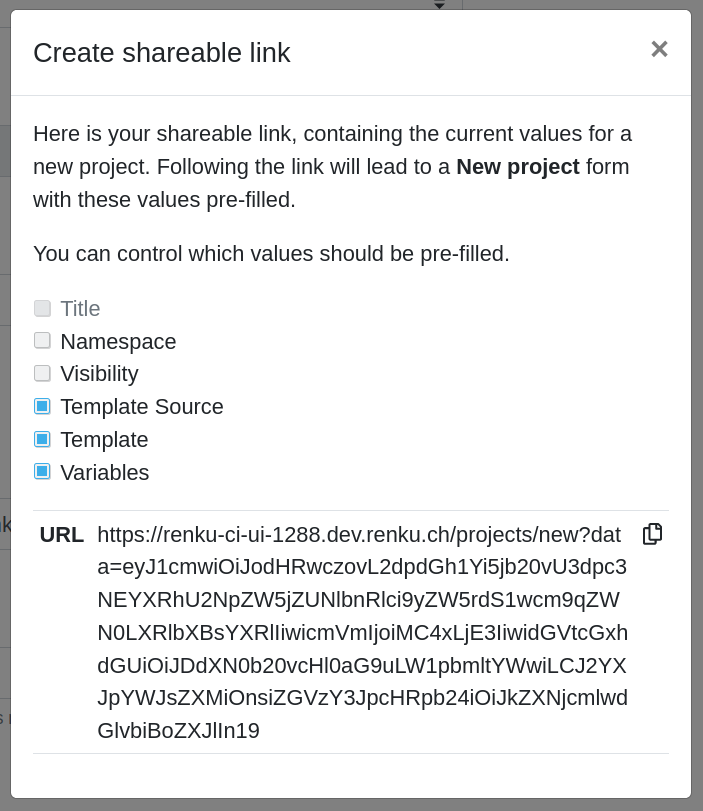
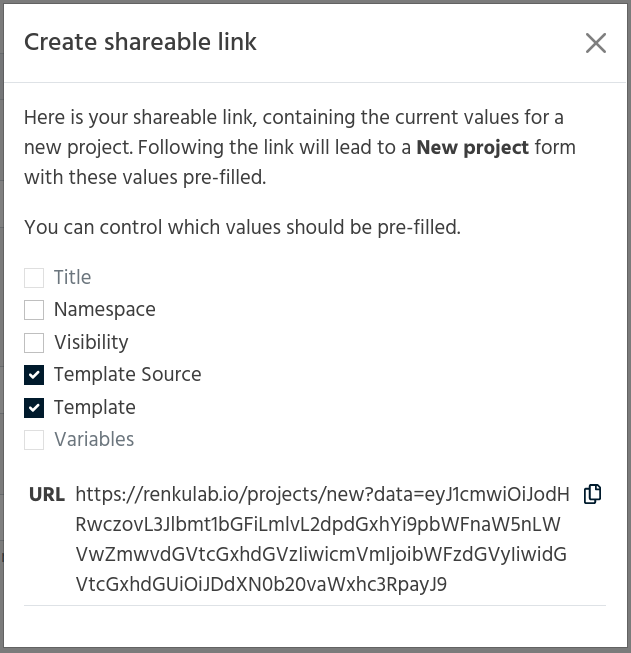
chore: update images to the new UI
* update project creation images

* update collaboration tab

* update template images

* update KG views

* spelling

* blur details

Changed region(s): [[0.0, 0.0, 1.0, 1.0]]

diff --git a/docs/tutorials/first_steps/10_sharing_is_caring.rst b/docs/tutorials/first_steps/10_sharing_is_caring.rst
@@ -6,18 +6,20 @@ Share your results and collaborate with your peers
 In this section, we will see how to use Renku to collaborate on projects. For
 an overview on collaboration, see :ref:`collaborating`.
 
-Discussions with Issues
-^^^^^^^^^^^^^^^^^^^^^^^
+A view of Issues and Merge Requests
+^^^^^^^^^^^^^^^^^^^^^^^^^^^^^^^^^^^
 
 Let us start by going back to the Renku web interface on renkulab.io_ or
 whichever instance you are using for this tutorial. Make sure you are logged
 in, so you can see your projects list by clicking on ``Projects`` in the top
 navigation bar.
 
-Click on your ``flights-tutorial`` project to open it and then go to the
-**Issues** sub tab (2) of the **Collaboration** tab (1). It is probably empty
+Click on your ``Flights-tutorial`` project to open it and then go to the 
+**Collaboration** tab (1). Here we provide quick access into the GitLab Issues
+and Merge Requests view. You can view and create new Issues and Merge Requests
+directly from this view. It is probably empty
 at the moment, so let us start a new discussion by clicking on the
-**New Issue** button (3).
+**New Issue** button (2).
 
 .. image:: ../../_static/images/ui_05_new-issue.png
     :width: 85%
@@ -30,100 +32,21 @@ as follows.
 * Title: Data source
 * Description: Where does the data come from?
 
-Do not change the **Visibility** and click on **Create**.
+Click on **Submit issue**. The **Issues** sub tab should now list the newly created issue.
 
-The **Issues** sub tab should now list the newly created issue.
-
-In Renku, issues are media-rich discussions you can use to help keep track of
-your work and to collaborate with others.
-
-To participate in a given issue and add comments, click on the title.
+The issues can be viewed directly in this window.
 
 .. image:: ../../_static/images/ui_06_issues-list.png
     :width: 85%
     :align: center
-    :alt: Kus list in Renku UI
+    :alt: Issues in Gitlab view
+    
+Once the issue has been resolved, it can be closed in the same way (1).    
 
-This will display the thread of comments from the selected issue.
-To write something and add it to the discussion, use the text
-box and click submit.
-
-.. image:: ../../_static/images/ui_07_new-issue-comment.png
+.. image:: ../../_static/images/ui_06_issues-close.png
     :width: 85%
     :align: center
-    :alt: Participate in a issue in Renku UI
-
-The comments are entered using the Markdown format (`cheatsheet here <https://github.com/adam-p/markdown-here/wiki/Markdown-Cheatsheet>`_). You can also embed notebook files
-and markdown files to have them rendered in-line in the issue body or comment.
-The syntax is as follows:
-
-.. code-block:: console
-
-    ![description](file-location)
-
-Let us try this with our question about where the data is coming from.
-Copy and paste the following text in the text box and hit **Submit**.
-
-.. code-block:: console
-
-    The readme should be updated with information about the data source:
-
-    ![Readme](README.md)
-
-.. image:: ../../_static/images/ui_08_issue-comment-1.png
-    :width: 85%
-    :align: center
-    :alt: Issue example 1 in Renku UI
-
-Now, you can use **Launch JupyterLab** to open and edit the ``README.md`` file.
-You can mention that the data comes from the *US Dept. of Transportation,
-Bureau of Transportation Statistics*, with a link to its home page:
-https://www.transtats.bts.gov
-
-To update the repository after changing the ``README.md`` file, open a console
-by clicking on the '+' button and then selecting **Terminal**.
-
-Use ``git`` to save your changes:
-
-.. code-block:: console
-
-    git add README.md
-    git commit -m"Added data source information to the Readme"
-    git push
-
-Now that the ``README.md`` file has been updated, we can **Close**
-the issue (1).
-
-.. image:: ../../_static/images/ui_09_close-issue.png
-    :width: 85%
-    :align: center
-    :alt: Close issue in Renku UI
-
-Doing so indicates that the corresponding discussion is closed.
-This can be useful to sort discussions and find out what is currently
-work-in-progress and what has been completed within the project.
-
-Now, let us create another issue and embed a notebook in the discussion.
-
-* Title: General data exploration
-* Description: First look at the dataset
-
-Add a comment with the following content:
-
-.. code-block:: console
-
-    Let's explore the dataset! Here is what we know:
-
-    ![Exploration notebook](notebooks/01-CountFlights.ran.ipynb)
-
-After creating the issue, you will see the contents of the notebook displayed
-in the comment. You can collapse/expand the notebook display by clicking on its
-title in blue.
-
-.. image:: ../../_static/images/ui_10_embed-notebook.png
-    :width: 85%
-    :align: center
-    :alt: Embedded notebook in Renku UI
+    :alt: Close in Gitlab view
 
 .. _renkulab.io: https://renkulab.io
 .. _documentation: https://renku.readthedocs.io/

diff --git a/docs/tutorials/first_steps/02_start_an_interactive_session.rst b/docs/tutorials/first_steps/02_start_an_interactive_session.rst
@@ -10,25 +10,36 @@ desktop using VNC. We will use JupyterLab and RStudio for this tutorial.
 
 In the previous step we :ref:`created a new project <create_project>` using
 the Python, Julia or R template; we can start working with the project right from the
-browser by starting a session in either JupyterLab or RStudio. Click on **Environments**
-(1), then on **New** (2).
+browser by starting a session in end-points mentioned above.
 
-.. image:: ../../_static/images/ui_03.1_notebook-servers.png
+There are a few ways of initiating a session. The one-click **Start** button
+(1) uses all the default settings to initiate a session. 
+
+.. image:: ../../_static/images/ui_03_start-session.png
     :width: 100%
     :align: center
-    :alt: Head to environments page
+    :alt: Head to sessions page
+
+This is sufficient for this tutorial, however you may also click on
+**New session** (2) to customize the settings with which to start a session. 
+For example, you can select the computational requirements and commit to launch from. 
+
+.. image:: ../../_static/images/ui_03_start-session-docker.png
+    :width: 100%
+    :align: center
+    :alt: Docker building
 
 The Docker image takes some time to build, it's possible that the
 status is still **building**. It will automatically refresh when
 it's ready. Sit tight and wait for it to become **available**.
 
-.. image:: ../../_static/images/ui_03.2_notebook-servers.png
+.. image:: ../../_static/images/ui_03_start-session-ready.png
     :width: 100%
     :align: center
-    :alt: Start new environment
+    :alt: Ready to start
 
-The default settings are fine for this tutorial. Choose either */lab* or */rstudio* depending on your project type and then click on
-**Start environment** (3). You will see a table with the status
+The default settings are fine for this tutorial. Choose either */lab* or */rstudio* depending on your
+project type and then click on **Start session** (3). You will see a table with the status
 of the environment launch (initially in yellow) on the right.
 Wait until its color has turned to green and the status from
 *Pending* to *Running*.
@@ -38,9 +49,12 @@ Wait until its color has turned to green and the status from
     Please be patient, the first time you start a server it may require
     some time to launch.
 
-You can now connect to the server by clicking on the **Connect** button (1).
+You can now connect to your session by clicking on the **Open** button (1),
+which will open the session in the same browser tab, or you can **Open in new tab**
+(2) which will open the session in a new tab. You can have both of these open
+at the time time too, so you do not need to worry about choosing between the two.
 
-.. image:: ../../_static/images/ui_04_connect-to-server.png
+.. image:: ../../_static/images/ui_03_start-session-open.png
     :width: 100%
     :align: center
     :alt: Connect to environment

diff --git a/docs/user/knowledge-graph.rst b/docs/user/knowledge-graph.rst
@@ -27,11 +27,20 @@ activating the Knowledge Graph integration.
 Activation
 ----------
 
-The Knowledge Graph is activated by default on all new projects. On projects
-that were in place before this feature was released, the user is prompted to
+The Knowledge Graph is activated by default on all new Public or Internal projects.
+On projects that were in place before this feature was released, the user is prompted to
 enable the integration via a pop-up button:
 
 .. image:: ../_static/images/kg_activation.png
+
+For Private projects, there is an option to opt-out of the Knowledge Graph, if you do not want
+your metadata to be able to be queried without access.
+
+.. image:: ../_static/images/kg_opt_out.png
+
+You can then turn on Knowledge Graph integration at a later time if you wish.
+
+.. image:: ../_static/images/kg_turn_on.png
 
 File Lineage Display
 --------------------
